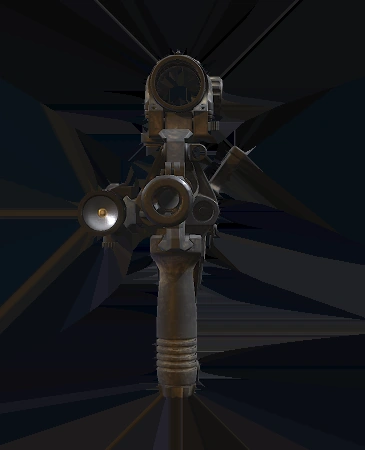
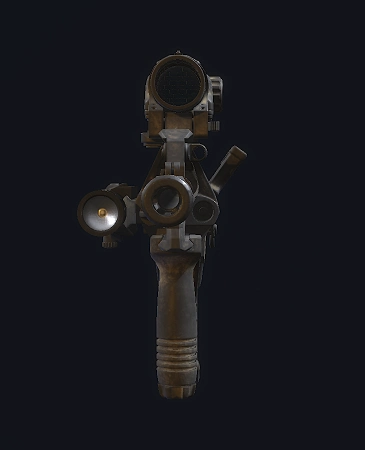
Refine photo-based exterior surfaces and optic end faces

diff --git a/exterior-shell.js b/exterior-shell.js
@@ -1,6 +1,72 @@
+// Exterior-only surface reconstruction. The source masks keep the photographed
+// silhouette; these fields add rounded cross-sections and restrained surface relief.
+function refineExteriorDepth(frame, depth, rgba) {
+  const {W: width, H: height, cm, zMax} = frame;
+  const result = new Float32Array(depth.length);
+  const distance = new Float32Array(depth.length);
+  for (let i = 0; i < depth.length; ++i) distance[i] = depth[i] ? 1000 : 0;
+  // Chamfer distance softens the thin, pinched seam around the old flat profiles.
+  for (let y = 1; y < height; ++y) for (let x = 1; x < width; ++x) {
+    const p = y*width+x;
+    distance[p] = Math.min(distance[p], distance[p-1]+1, distance[p-width]+1);
+  }
+  for (let y = height-2; y >= 0; --y) for (let x = width-2; x >= 0; --x) {
+    const p = y*width+x;
+    distance[p] = Math.min(distance[p], distance[p+1]+1, distance[p+width]+1);
+  }
+  const luma = (x,y) => {
+    const p = 4*(Math.max(0,Math.min(height-1,y))*width+Math.max(0,Math.min(width-1,x)));
+    return (rgba[p]*.2126+rgba[p+1]*.7152+rgba[p+2]*.0722)/255;
+  };
+  const round = t => Math.sqrt(Math.max(0,1-t*t));
+  for (let y = 1; y < height-1; ++y) for (let x = 1; x < width-1; ++x) {
+    const p = y*width+x;
+    if (!depth[p]) continue;
+    let z = (depth[p]-1)/254*zMax;
+    const edge = Math.min(1, Math.max(0,(distance[p]-1)/6));
+    z *= Math.sqrt(edge*(2-edge));
+    // The optic is a tube, rather than a rectangular slab with a pointed end.
+    if (x >= 221 && x <= 382 && y < 70) {
+      if (y >= 25 && y <= 64) {
+        z = 2.02*round((y-44.5)/19.5);
+        // Preserve the side adjustment dial's protrusion.
+        if (x > 244 && x < 285 && y > 30 && y < 61) z += Math.max(0,(depth[p]-90)/254*zMax)*.35;
+      } else if (y < 25) {
+        // Small sight tabs sit near the tube's centre plane; they must not
+        // extrude across its full diameter like a folded sheet.
+        z = Math.min(z,.38);
+      }
+    }
+    // Visible barrel and foregrip cross-sections follow their photographed edges.
+    if (x > 546 && y > 106 && y < 134) {
+      let top=y, bottom=y;
+      while (top > 100 && depth[(top-1)*width+x]) --top;
+      while (bottom < 140 && depth[(bottom+1)*width+x]) ++bottom;
+      z = (bottom-top)*cm/2*round((y-(top+bottom)/2)/Math.max(1,(bottom-top)/2));
+    }
+    if (x > 498 && x < 534 && y > 162 && y < 242) {
+      let left=x, right=x;
+      while (left > 490 && depth[y*width+left-1]) --left;
+      while (right < 538 && depth[y*width+right+1]) ++right;
+      z = (right-left)*cm/2*round((x-(left+right)/2)/Math.max(1,(right-left)/2));
+    }
+    // Restrict photograph-derived relief to molded/knurled details. Broad paint
+    // mottling on the stock must stay color, rather than becoming bumpy geometry.
+    const magazine = y > 180 && x > 165 && x < 252;
+    const gripRings = y > 205 && y < 239 && x > 500 && x < 532;
+    const rail = y > 80 && y < 94 && x > 215 && x < 521;
+    if (distance[p] > 2 && (magazine || gripRings || rail)) {
+      const local = (luma(x-4,y)+luma(x+4,y)+luma(x,y-4)+luma(x,y+4))/4;
+      z += Math.max(-.10, Math.min(.16,(luma(x,y)-local)*(magazine ? 1.5 : .8)));
+    }
+    result[p] = Math.max(0,z);
+  }
+  return result;
+}
+
 // Each side keeps its own silhouette. Where one side extends beyond the other,
 // close only the exposed area on the centre plane.
-function buildExteriorShell(THREE, frame, rightDepth, leftDepth) {
+function buildExteriorShell(THREE, frame, rightDepth, leftDepth, rightSurface, leftSurface) {
   const {W: width, H: height, cm, zMax, muzzlePx, axisPx, muzzleX} = frame;
   const position = [], uv = [], rearUv = [], rearBlend = [], indices = [[], [], []];
   const centre = new Int32Array(width * height).fill(-1);
@@ -40,7 +106,7 @@ function buildExteriorShell(THREE, frame, rightDepth, leftDepth) {
     rearBlend.push(y >= 99 && x < 128 ? Math.max(0, Math.min(1, 1 - (x - rowStart[y] - 6) / 24)) : 0);
     return index;
   }
-  for (const [sign, depth] of [[1, rightDepth], [-1, leftDepth]]) {
+  for (const [sign, depth, surface] of [[1, rightDepth, rightSurface], [-1, leftDepth, leftSurface]]) {
     const index = new Int32Array(width * height).fill(-1);
     for (let y = 1; y < height - 1; ++y) {
       for (let x = 1; x < width - 1; ++x) {
@@ -49,7 +115,7 @@ function buildExteriorShell(THREE, frame, rightDepth, leftDepth) {
         // End the one-pixel silhouette rim at the join between sides.
         const rim = !depth[p - 1] || !depth[p + 1] || !depth[p - width] || !depth[p + width]
           || !depth[p - width - 1] || !depth[p + width + 1] || !depth[p - width + 1] || !depth[p + width - 1];
-        index[p] = vertex(p, rim ? 0 : sign * (depth[p] - 1) / 254 * zMax);
+        index[p] = vertex(p, rim ? 0 : sign * (surface ? surface[p] : (depth[p] - 1) / 254 * zMax));
       }
     }
     sideIndices.push(index);
@@ -97,10 +163,19 @@ function buildExteriorShell(THREE, frame, rightDepth, leftDepth) {
   for (let i = 0; i < normals.count; ++i) {
     const u = uv[2*i], v = uv[2*i+1], z = position[3*i+2];
     const x = Math.floor(u * width), y = Math.floor((1-v) * height);
-    stripUv.push(u, saturate(.5 - z / (2*zMax)));
+    // Use the local width of each part, so narrow tubes do not sample only
+    // a tiny band of the overhead/underside reference.
+    const edgeY = y < (upper[x]+lower[x])/2 ? upper[x] : lower[x];
+    const field = z >= 0 ? rightSurface : leftSurface;
+    let localRadius = 0;
+    if (field) for (let j = Math.max(0,edgeY-24); j <= Math.min(height-1,edgeY+24); ++j) {
+      localRadius = Math.max(localRadius,field[j*width+x]);
+    }
+    stripUv.push(u, saturate(.5 - z / (2*Math.max(.3,localRadius || zMax))));
     const nx = normals.getX(i), ny = normals.getY(i);
-    const roof = weight(ny) * saturate(1 - (y - upper[x] - 5) / 18);
-    const base = weight(-ny) * saturate(1 - (lower[x] - y - 4) / 14);
+    const tube = x >= 219 && x <= 384 && y < 70;
+    const roof = (tube ? 0 : 1) * weight(ny) * saturate(1 - (y - upper[x] - 5) / 18);
+    const base = (tube ? 0 : 1) * weight(-ny) * saturate(1 - (lower[x] - y - 4) / 14);
     const rear = rearBlend[i] * weight(-nx);
     // Map the visible end faces into the straight-on exterior reference.
     let endX = 0, endY = 0, front = 0;

diff --git a/index.html b/index.html
@@ -118,7 +118,7 @@
 } }
 </script>
 <script src="reference-view.js"></script>
-<script src="exterior-shell.js?v=weathered"></script>
+<script src="exterior-shell.js?v=surface-detail-2"></script>
 </head>
 <body>
 <div class="webgl-object-shell" id="shell">
@@ -179,6 +179,9 @@
       <button class="chip" data-view="top" aria-pressed="false">Top</button>
       <button class="chip" data-view="action" aria-pressed="false">Action</button>
       <button class="chip" data-view="gas" aria-pressed="false">Gas system</button>
+      <button class="chip" data-view="front" aria-pressed="false">Front</button>
+      <button class="chip" data-view="rear" aria-pressed="false">Rear</button>
+      <button class="chip" data-view="optic" aria-pressed="false">Optic</button>
     </div>
   </section>
 
@@ -330,6 +333,13 @@ function readDepth(image) {
   const rgba = ctx.getImageData(0, 0, canvas.width, canvas.height).data;
   return Uint8Array.from({ length: PHOTO.W * PHOTO.H }, (_, i) => rgba[i * 4]);
 }
+function photoPixels(image) {
+  const surface = document.createElement("canvas");
+  surface.width = PHOTO.W; surface.height = PHOTO.H;
+  const ctx = surface.getContext("2d", { willReadFrequently: true });
+  ctx.drawImage(image, 0, 0, PHOTO.W, PHOTO.H);
+  return ctx.getImageData(0, 0, PHOTO.W, PHOTO.H).data;
+}
 function colorTexture(image) {
   const texture = new THREE.Texture(image);
   texture.colorSpace = THREE.SRGBColorSpace;
@@ -412,14 +422,42 @@ function addCockingHandle() {
   shell.add(grip);
 }
 
-const appearance = ["right.webp", "left.webp", "right-relief.png", "left-relief.png", "upper.webp", "lower.webp", "rear.webp", "front.webp"];
+// Recessed, round optic end faces retain the supplied honeycomb and lens
+// imagery when orbiting to the front/rear, instead of collapsing into the seam.
+const opticMaterials = [];
+function addOpticFaces(front, rear) {
+  for (const [isFront, image, pixelX] of [[true,front,383],[false,rear,219]]) {
+    const radius = 2.02;
+    const geometry = new THREE.CircleGeometry(radius,64);
+    if (isFront) {
+      const pos = geometry.attributes.position, uv = geometry.attributes.uv;
+      for (let i=0; i<pos.count; ++i) {
+        uv.setXY(i,(177+pos.getX(i)*15.1)/365,1-(83-pos.getY(i)*15.1)/450);
+      }
+    }
+    geometry.rotateY(isFront ? Math.PI/2 : -Math.PI/2);
+    const material = new THREE.MeshBasicMaterial({map:colorTexture(image),toneMapped:false});
+    opticMaterials.push(material);
+    const face = new THREE.Mesh(geometry,material);
+    face.position.set((pixelX-PHOTO.muzzlePx)*PHOTO.cm+PHOTO.muzzleX,
+      (PHOTO.axisPx-44)*PHOTO.cm,0);
+    face.renderOrder = shell.renderOrder;
+    shell.add(face);
+  }
+}
+
+const appearance = ["right.webp", "left.webp", "right-relief.png", "left-relief.png", "upper.webp", "lower.webp", "rear.webp", "front.webp", "optic-rear.webp"];
 Promise.all(appearance.map(file => loadImg("appearance/" + file)))
-.then(([right, left, rightMap, leftMap, upper, lower, rear, front]) => {
+.then(([right, left, rightMap, leftMap, upper, lower, rear, front, opticRear]) => {
   shell.geometry.dispose();
   const leftDepth = readDepth(leftMap);
   const receiverPhoto = clearHandlePatch(left, leftDepth);
-  shell.geometry = buildExteriorShell(THREE, PHOTO, readDepth(rightMap), leftDepth);
+  const rightDepth = readDepth(rightMap);
+  shell.geometry = buildExteriorShell(THREE, PHOTO, rightDepth, leftDepth,
+    refineExteriorDepth(PHOTO, rightDepth, photoPixels(right)),
+    refineExteriorDepth(PHOTO, leftDepth, photoPixels(receiverPhoto)));
   addCockingHandle();
+  addOpticFaces(front, opticRear);
   const finishes = { upperMap: colorTexture(upper), lowerMap: colorTexture(lower), rearMap: colorTexture(rear), frontMap: colorTexture(front) };
   shell.userData.finishTextures = Object.values(finishes);
   for (const [material, image] of [[M.shell, right], [leftShell, receiverPhoto]]) {
@@ -808,7 +846,7 @@ function syncBody() {
   shell.visible = shellReady && opacity > 0;
   schematicTrigger.visible = true;
   shell.castShadow = solid;
-  for (const material of [...shellMaterials, handleFinish]) {
+  for (const material of [...shellMaterials, handleFinish, ...opticMaterials]) {
     material.opacity = opacity;
     material.depthWrite = solid;
     if (material.transparent === solid) {
@@ -850,6 +888,9 @@ const VIEWS = {
   top: { dir: [0, 1, 0.001], target: [2, 0, 0], span: [88, 16] },
   action: { dir: [0.18, 0.14, 1], target: [-21, -2.6, 0], span: [38, 17] },
   gas: { dir: [0.3, 0.26, 1], target: [15, -0.6, 0], span: [26, 11] },
+  front: { dir: [1, 0, 0.001], target: [2, -3, 0], span: [16, 32] },
+  rear: { dir: [-1, 0, 0.001], target: [-20, -3, 0], span: [16, 32] },
+  optic: { dir: [0.65, 0.18, 1], target: [-8.3, 7.5, 0], span: [23, 14] },
 };
 let curView = Object.hasOwn(VIEWS, requested.get("view")) ? requested.get("view") : "iso";
 let userMoved = false, fly = null;

diff --git a/README.md b/README.md
@@ -10,3 +10,15 @@ Created by LT Armando Teixeira Pinto, 2HB D-COY 1 PL.
 
 - The main viewer uses the weathered exterior renders supplied for this project. Both side views include the magazine. The top, underside, front and rear references provide the finish between the side profiles.
 - The separate Studio view uses the CC0 right-side photograph by KarmaKangaroo. [Wikimedia Commons](https://commons.wikimedia.org/wiki/File:EF88_(Enhance_F88_%27Austeyr%27).png)
+
+## Exterior detail pass
+
+The side-photo silhouettes are retained while the optic, barrel and foregrip
+use rounded visual cross-sections. Restrained relief follows molded magazine
+and grip details without turning the stock's paint wear into surface bumps.
+The optic end faces use the supplied front honeycomb and rear lens references.
+Front, Rear and Optic camera presets support close inspection; all added faces
+follow the existing body transparency setting.
+
+This is a visual reconstruction from the supplied renders, not a dimensionally
+accurate model. The firing-cycle animation is unchanged.
